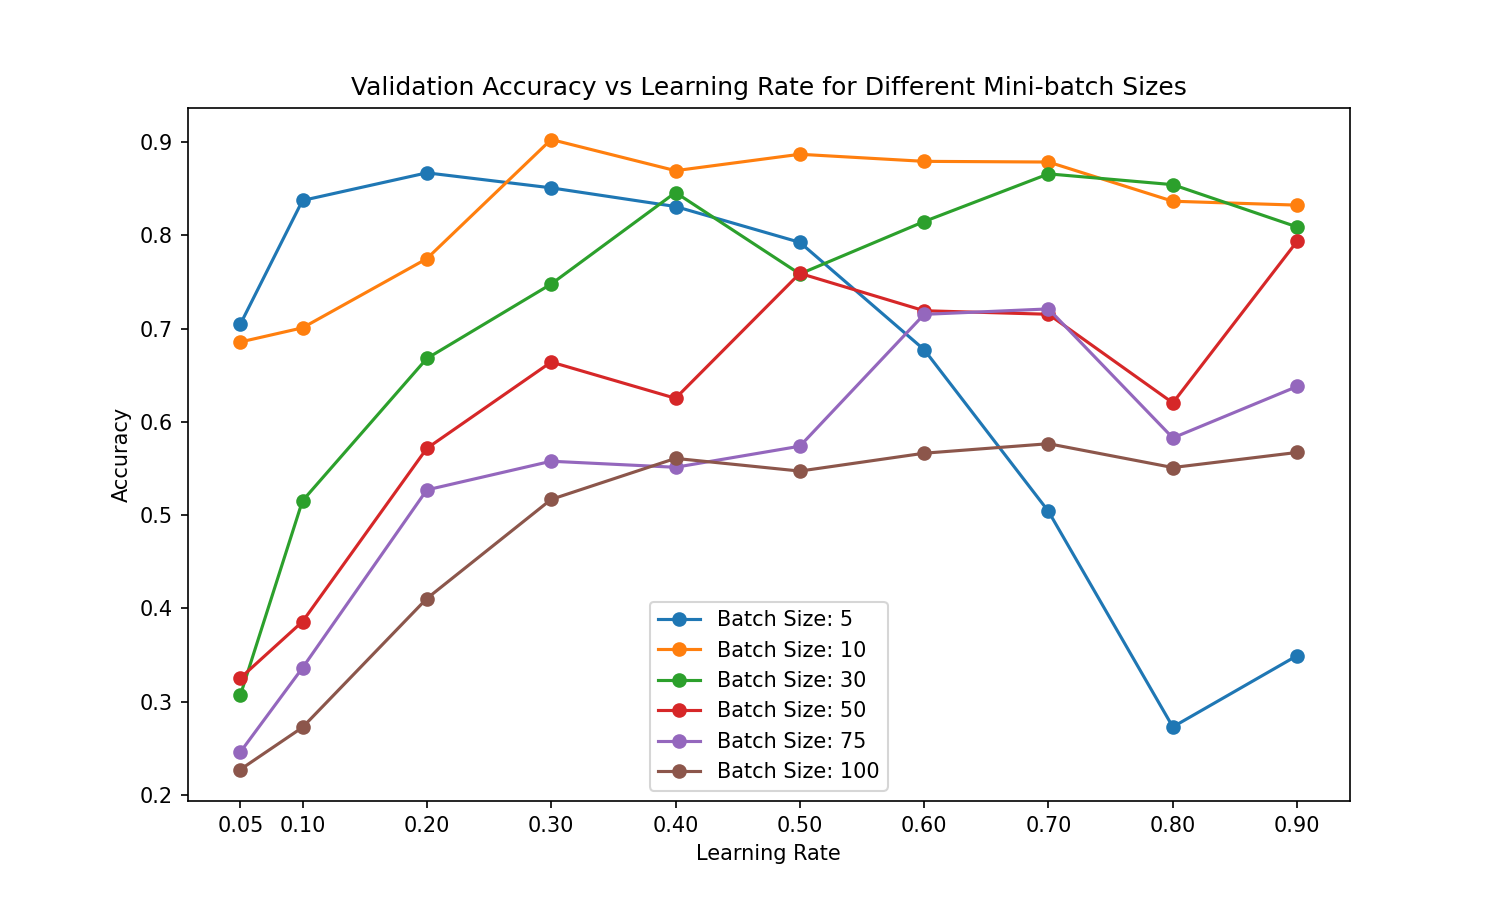
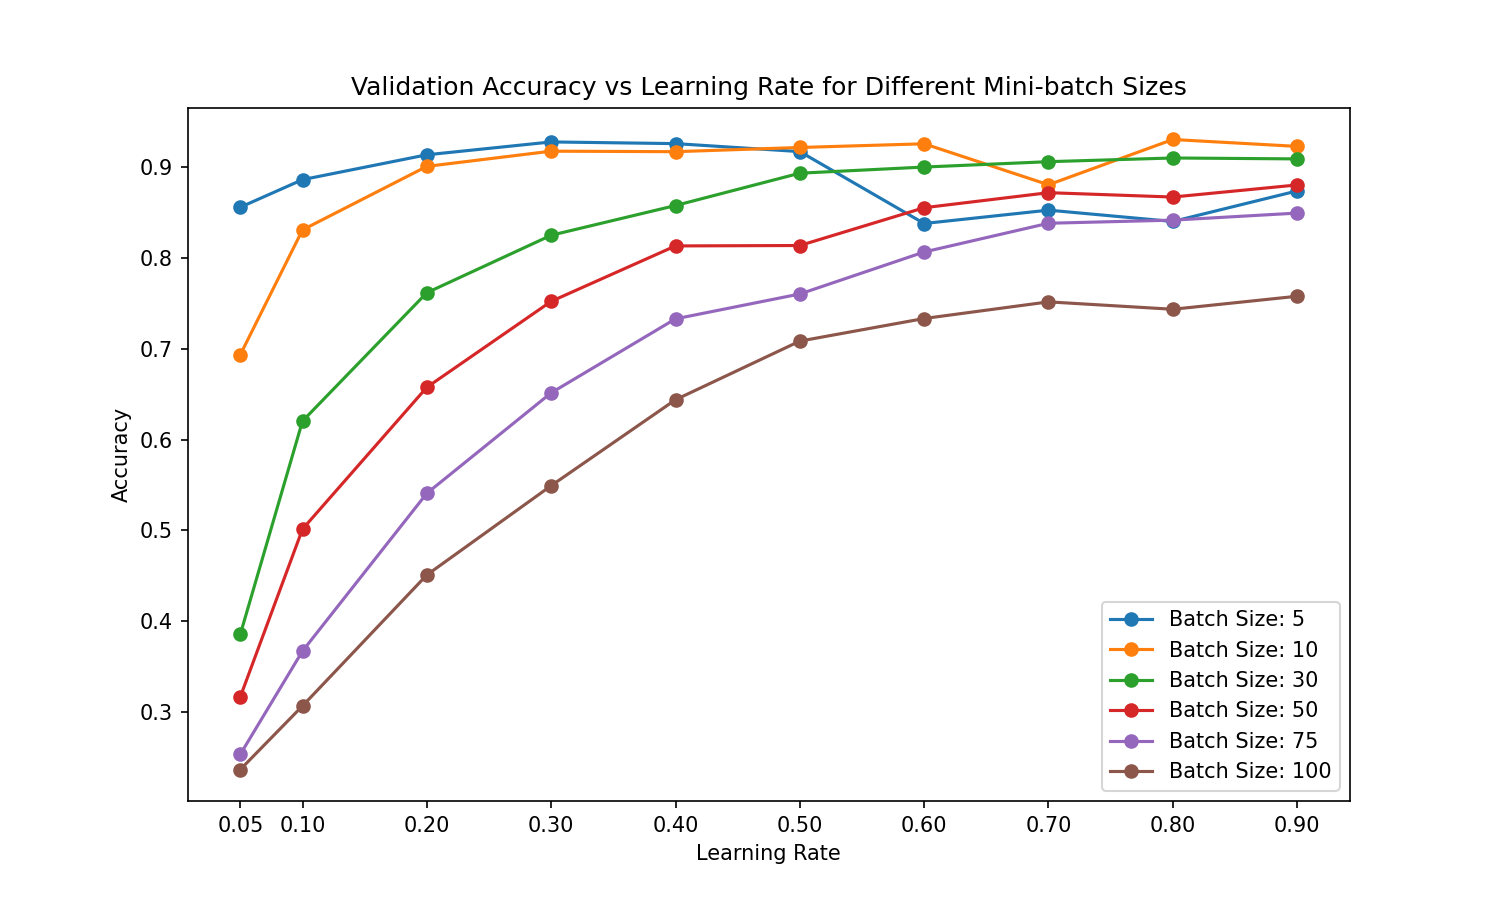
results run nr 2

diff --git a/lab5/src/main.py b/lab5/src/main.py
@@ -77,6 +77,7 @@ if __name__ == "__main__":
     lrs = [0.05, 0.1, 0.2, 0.3, 0.4, 0.5, 0.6, 0.7, 0.8, 0.9]
     epochs = 20
     dg = DataGatherer(
+        layers_sizes=[64, 20, 16, 10],
         epochs=epochs,
         mini_batch_sizes=mb_sizes,
         learning_rates=lrs,
